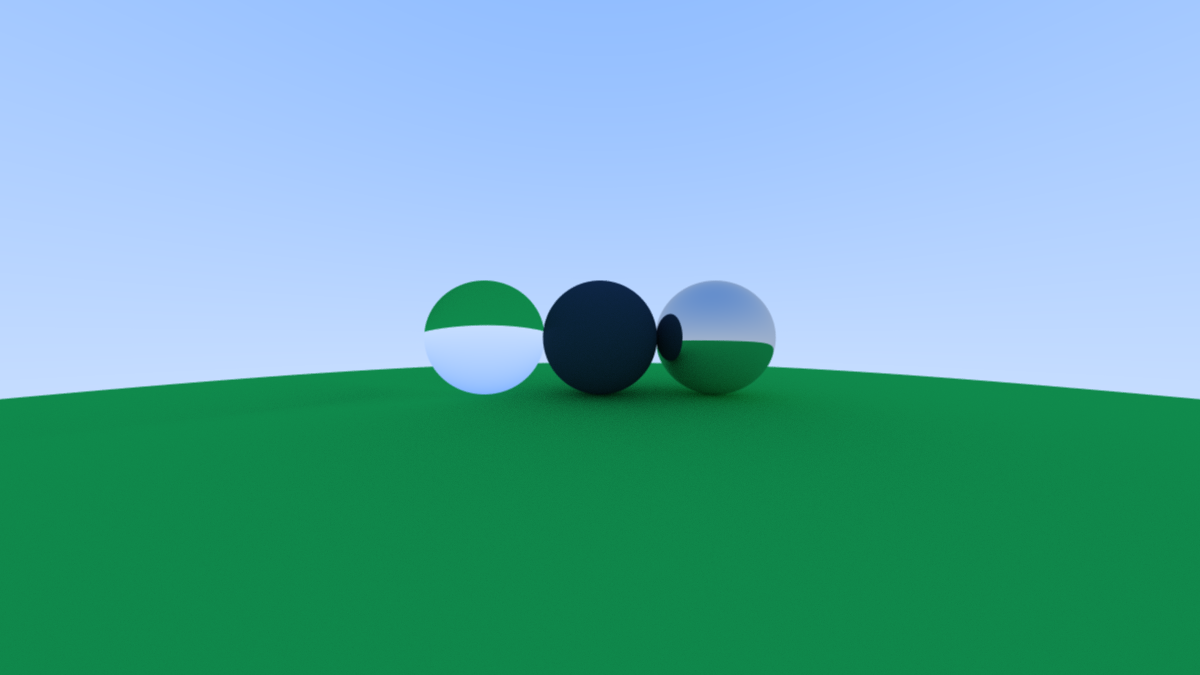
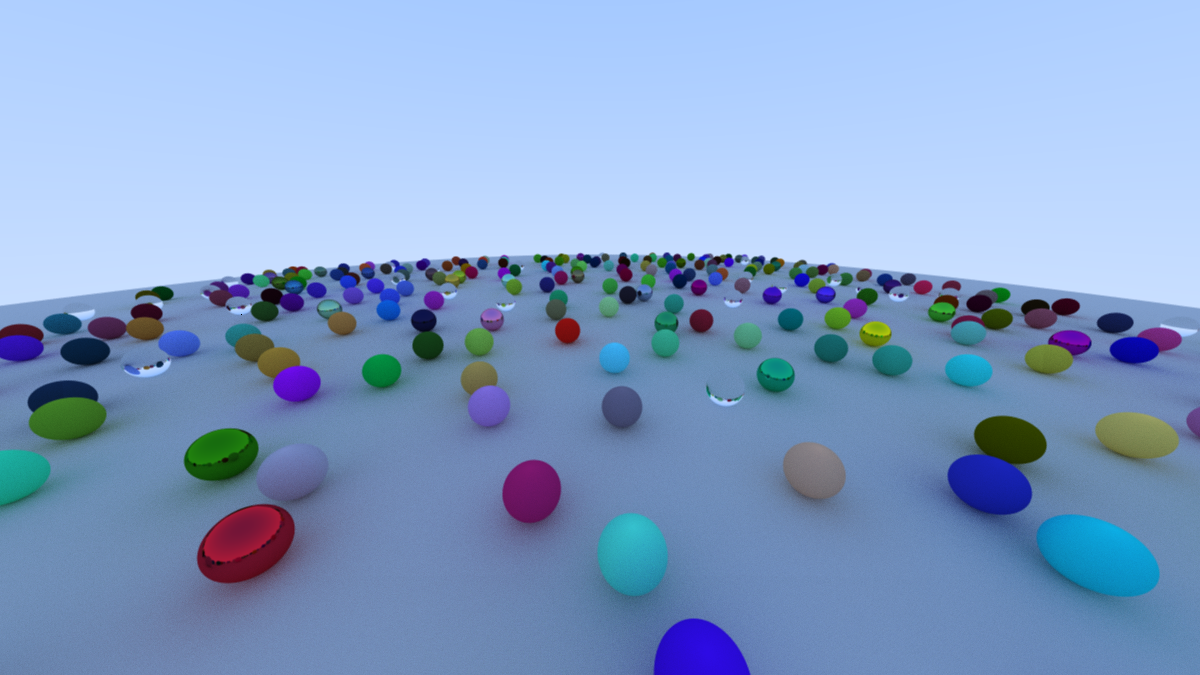
generate random world

diff --git a/src/main.rs b/src/main.rs
@@ -8,6 +8,7 @@ mod vec;
 use hittable::get_closest_hit_in_range;
 use hittable::Dielectric;
 use hittable::Lambertian;
+use hittable::Material;
 use hittable::Metal;
 use hittable::Object;
 use hittable::World;
@@ -95,10 +96,10 @@ fn get_world() -> World {
         hittable: Box::new(Sphere {
             o: Point {
                 x: 0.0,
-                y: -100.5,
+                y: -500.5,
                 z: -1.0,
             },
-            r: 100.0,
+            r: 500.0,
         }),
         material: Box::new(Lambertian {
             albedo: Color {
@@ -108,6 +109,72 @@ fn get_world() -> World {
             },
         }),
     });
+    w
+}
+
+fn generate_world() -> World {
+    let mut w: World = Default::default();
+
+    let earth_radius = 500.0;
+    let earth_center = Point {
+        x: 0.0,
+        y: -earth_radius,
+        z: 0.0,
+    };
+
+    w.add_object(Object {
+        hittable: Box::new(Sphere {
+            o: earth_center,
+            r: earth_radius,
+        }),
+        material: Box::new(Lambertian {
+            albedo: Color {
+                x: 0.8,
+                y: 0.8,
+                z: 0.8,
+            },
+        }),
+    });
+
+    for xi in -10..10 {
+        for zi in -10..10 {
+            let (x, z) = (
+                (xi * 3) as f32 + rand::get_random_offset(),
+                (zi * 3) as f32 + rand::get_random_offset(),
+            );
+            let r = 0.5;
+            let c =
+                (Point { x, y: 0.0, z } - earth_center).unit() * (earth_radius + r) + earth_center;
+
+            let material_p = rand::get_random_float();
+            let material: Box<dyn Material + Sync>;
+            if material_p > 0.8 {
+                material = Box::new(Metal {
+                    albedo: Color {
+                        x: rand::get_random_float(),
+                        y: rand::get_random_float(),
+                        z: rand::get_random_float(),
+                    },
+                    fuzziness: 0.1 * rand::get_random_float(),
+                });
+            } else if material_p > 0.7 {
+                material = Box::new(Dielectric { ir: 1.5 });
+            } else {
+                material = Box::new(Lambertian {
+                    albedo: Color {
+                        x: rand::get_random_float(),
+                        y: rand::get_random_float(),
+                        z: rand::get_random_float(),
+                    },
+                });
+            }
+            w.add_object(Object {
+                hittable: Box::new(Sphere { o: c, r }),
+                material,
+            });
+        }
+    }
+
     w
 }
 
@@ -131,8 +198,8 @@ fn ray_color(r: Ray, w: &World, depth: u32) -> Color {
 
 fn create_camera(aspect_ratio: f32) -> camera::Camera {
     let lookfrom = Point {
-        x: 0.0,
-        y: 0.0,
+        x: 13.0,
+        y: 5.0,
         z: 2.0,
     };
     let lookat = Point {
@@ -152,8 +219,8 @@ fn main() {
     let aspect_ratio = 16.0 / 9.0;
     let img_width: usize = 1200;
     let img_height: usize = (img_width as f32 / aspect_ratio) as usize;
-    let number_of_samples = 300;
-    let depth = 10;
+    let number_of_samples = 400;
+    let depth = 20;
 
     let mut img = vec![
         vec![
@@ -168,7 +235,7 @@ fn main() {
     ];
 
     let cam = create_camera(aspect_ratio);
-    let w = get_world();
+    let w = generate_world();
 
     let c_rows = AtomicUsize::new(0);
     img.par_iter_mut().enumerate().for_each(|(i, row)| {

diff --git a/src/rand.rs b/src/rand.rs
@@ -6,6 +6,10 @@ pub fn get_random_offset() -> f32 {
     random::<f32>() * 2.0 - 1.0
 }
 
+pub fn get_random_float() -> f32 {
+    random::<f32>()
+}
+
 pub fn random_in_sphere() -> Vec3 {
     loop {
         let v = Vec3 {
